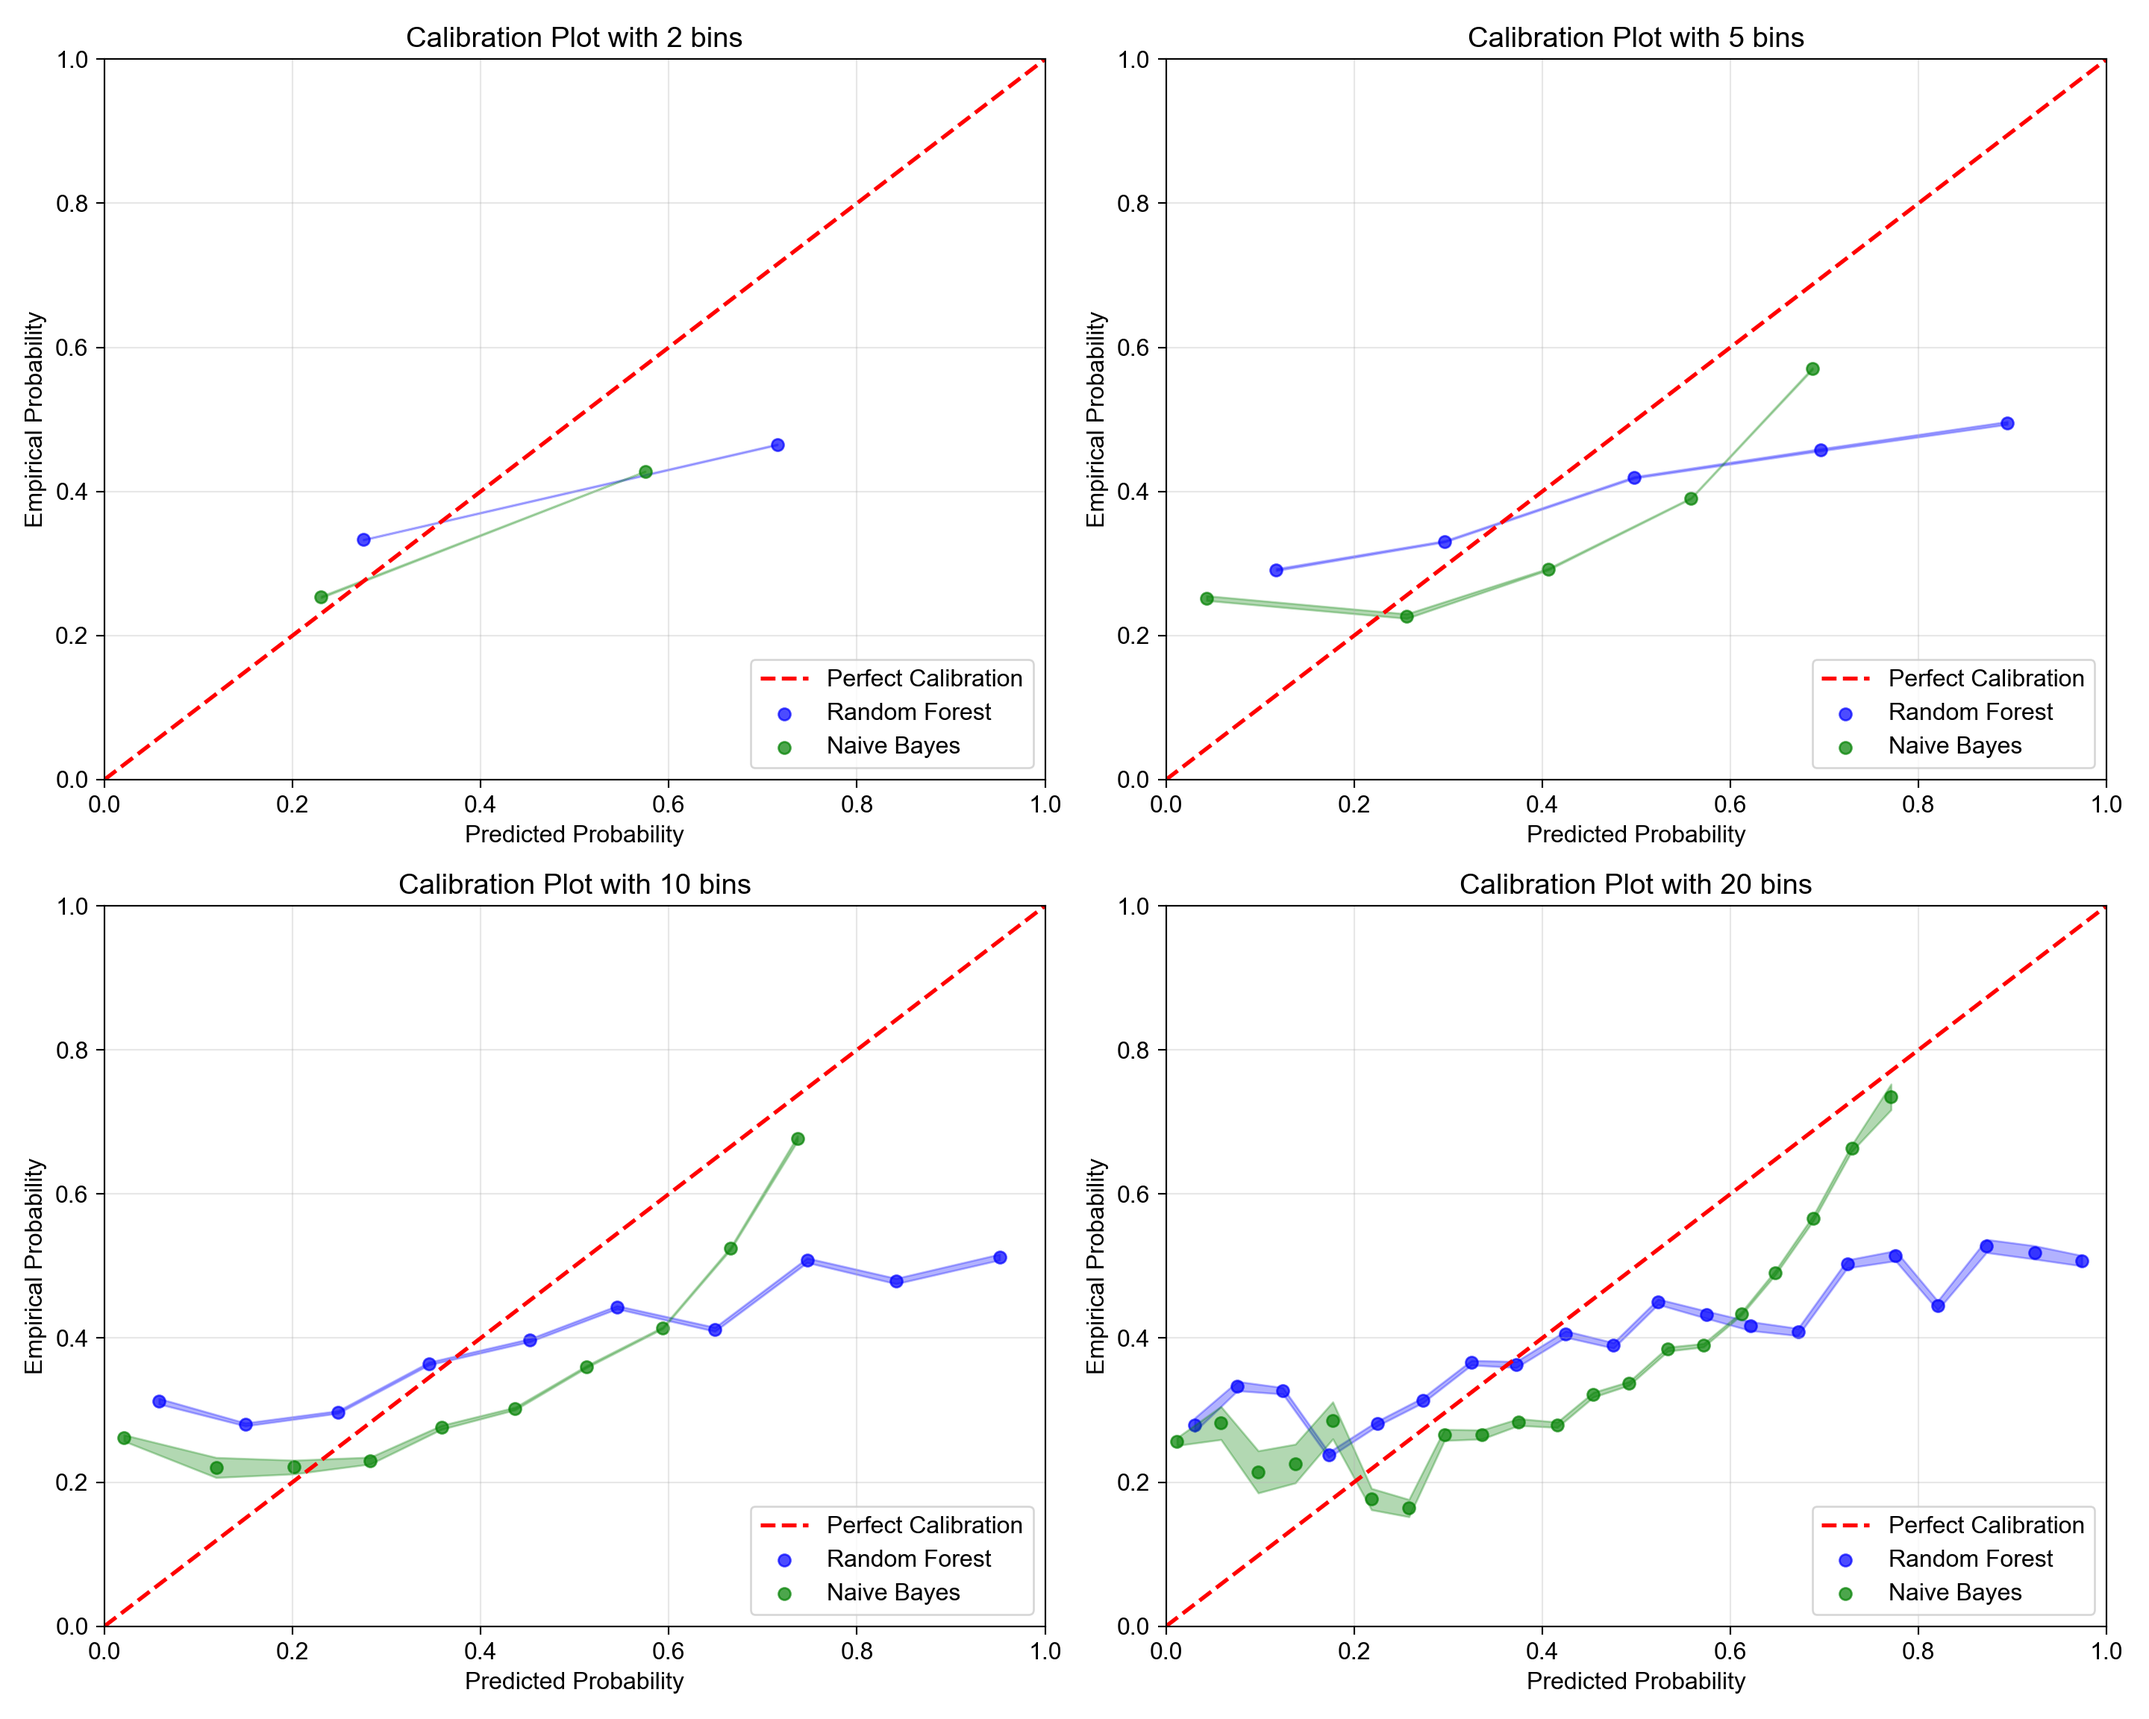
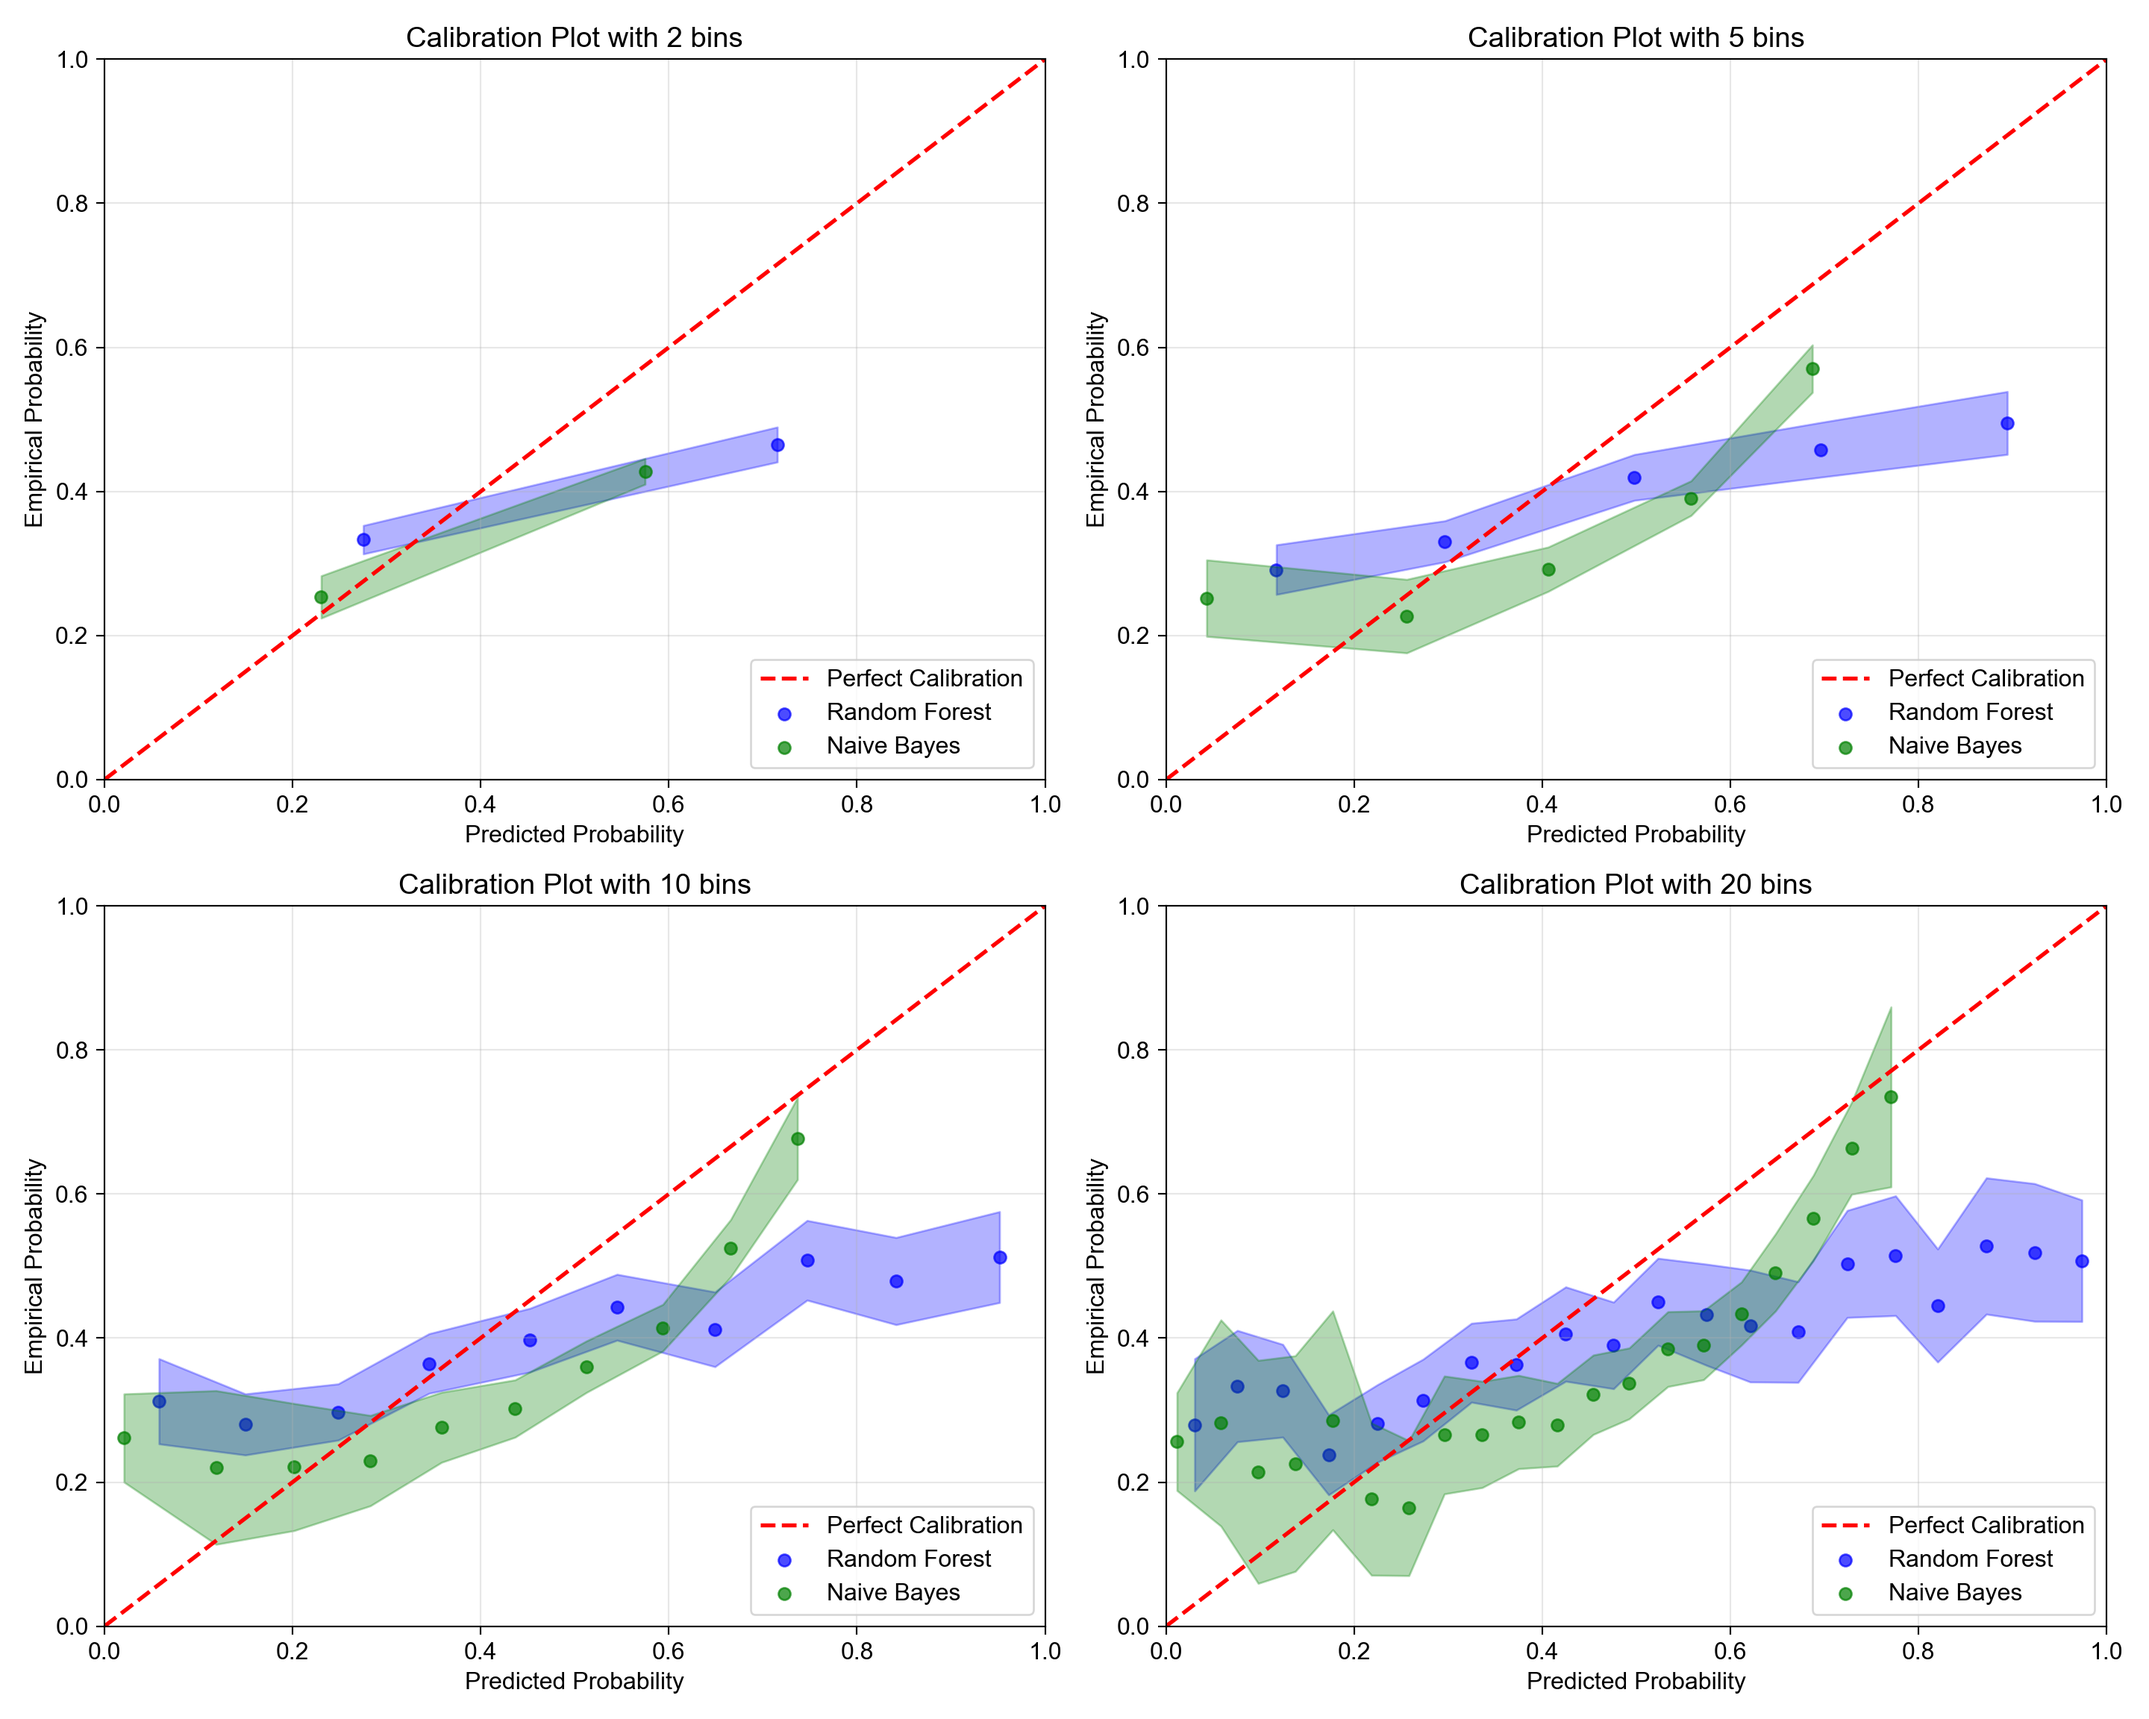
standard errors miscalculation

diff --git a/index.html b/index.html
@@ -7,7 +7,7 @@
 <meta name="viewport" content="width=device-width, initial-scale=1.0, user-scalable=yes">
 
 <meta name="author" content="Wooyong Park">
-<meta name="dcterms.date" content="2025-09-08">
+<meta name="dcterms.date" content="2025-09-10">
 
 <title>Calibration Plots</title>
 <style>
@@ -171,7 +171,7 @@ window.Quarto = {
     <div>
     <div class="quarto-title-meta-heading">Published</div>
     <div class="quarto-title-meta-contents">
-      <p class="date">September 8, 2025</p>
+      <p class="date">September 10, 2025</p>
     </div>
   </div>
   
@@ -20626,7 +20626,7 @@ document.querySelectorAll('.fa-regular.fa-copy').forEach(function(element) {
 <span id="cb11-10"><a href="#cb11-10" aria-hidden="true" tabindex="-1"></a>    <span class="at">bin_center =</span> <span class="fu">tapply</span>(plot_data<span class="sc">$</span>forest_pred, rf_bins, mean),</span>
 <span id="cb11-11"><a href="#cb11-11" aria-hidden="true" tabindex="-1"></a>    <span class="at">empirical_prob =</span> <span class="fu">tapply</span>(plot_data<span class="sc">$</span>actual, rf_bins, mean),</span>
 <span id="cb11-12"><a href="#cb11-12" aria-hidden="true" tabindex="-1"></a>    <span class="at">count =</span> <span class="fu">as.numeric</span>(<span class="fu">table</span>(rf_bins)),</span>
-<span id="cb11-13"><a href="#cb11-13" aria-hidden="true" tabindex="-1"></a>    <span class="at">empirical_se =</span> <span class="fu">tapply</span>(plot_data<span class="sc">$</span>actual, rf_bins, sd)<span class="sc">/</span>count</span>
+<span id="cb11-13"><a href="#cb11-13" aria-hidden="true" tabindex="-1"></a>    <span class="at">empirical_se =</span> <span class="fu">tapply</span>(plot_data<span class="sc">$</span>actual, rf_bins, sd)<span class="sc">/</span><span class="fu">sqrt</span>(count)</span>
 <span id="cb11-14"><a href="#cb11-14" aria-hidden="true" tabindex="-1"></a>  )</span>
 <span id="cb11-15"><a href="#cb11-15" aria-hidden="true" tabindex="-1"></a></span>
 <span id="cb11-16"><a href="#cb11-16" aria-hidden="true" tabindex="-1"></a><span class="co"># Calculate the statistics for the Naive Bayes model</span></span>
@@ -20634,7 +20634,7 @@ document.querySelectorAll('.fa-regular.fa-copy').forEach(function(element) {
 <span id="cb11-18"><a href="#cb11-18" aria-hidden="true" tabindex="-1"></a>    <span class="at">bin_center =</span> <span class="fu">tapply</span>(plot_data<span class="sc">$</span>nb_pred, nb_bins, mean),</span>
 <span id="cb11-19"><a href="#cb11-19" aria-hidden="true" tabindex="-1"></a>    <span class="at">empirical_prob =</span> <span class="fu">tapply</span>(plot_data<span class="sc">$</span>actual, nb_bins, mean),</span>
 <span id="cb11-20"><a href="#cb11-20" aria-hidden="true" tabindex="-1"></a>    <span class="at">count =</span> <span class="fu">as.numeric</span>(<span class="fu">table</span>(nb_bins)),</span>
-<span id="cb11-21"><a href="#cb11-21" aria-hidden="true" tabindex="-1"></a>    <span class="at">empirical_se =</span> <span class="fu">tapply</span>(plot_data<span class="sc">$</span>actual, nb_bins, sd)<span class="sc">/</span>count</span>
+<span id="cb11-21"><a href="#cb11-21" aria-hidden="true" tabindex="-1"></a>    <span class="at">empirical_se =</span> <span class="fu">tapply</span>(plot_data<span class="sc">$</span>actual, nb_bins, sd)<span class="sc">/</span><span class="fu">sqrt</span>(count)</span>
 <span id="cb11-22"><a href="#cb11-22" aria-hidden="true" tabindex="-1"></a>  )</span>
 <span id="cb11-23"><a href="#cb11-23" aria-hidden="true" tabindex="-1"></a></span>
 <span id="cb11-24"><a href="#cb11-24" aria-hidden="true" tabindex="-1"></a><span class="co"># Combine the statistics for the two models</span></span>
@@ -20815,7 +20815,7 @@ document.querySelectorAll('.fa-regular.fa-copy').forEach(function(element) {
 <span id="cb21-11"><a href="#cb21-11" aria-hidden="true" tabindex="-1"></a>    <span class="at">bin_center =</span> <span class="fu">tapply</span>(plot_data<span class="sc">$</span>forest_pred, rf_bins, mean),</span>
 <span id="cb21-12"><a href="#cb21-12" aria-hidden="true" tabindex="-1"></a>    <span class="at">empirical_prob =</span> <span class="fu">tapply</span>(plot_data<span class="sc">$</span>actual, rf_bins, mean),</span>
 <span id="cb21-13"><a href="#cb21-13" aria-hidden="true" tabindex="-1"></a>    <span class="at">count =</span> <span class="fu">as.numeric</span>(<span class="fu">table</span>(rf_bins)),</span>
-<span id="cb21-14"><a href="#cb21-14" aria-hidden="true" tabindex="-1"></a>    <span class="at">empirical_se =</span> <span class="fu">tapply</span>(plot_data<span class="sc">$</span>actual, rf_bins, sd)<span class="sc">/</span>count</span>
+<span id="cb21-14"><a href="#cb21-14" aria-hidden="true" tabindex="-1"></a>    <span class="at">empirical_se =</span> <span class="fu">tapply</span>(plot_data<span class="sc">$</span>actual, rf_bins, sd)<span class="sc">/</span><span class="fu">sqrt</span>(count)</span>
 <span id="cb21-15"><a href="#cb21-15" aria-hidden="true" tabindex="-1"></a>  )</span>
 <span id="cb21-16"><a href="#cb21-16" aria-hidden="true" tabindex="-1"></a></span>
 <span id="cb21-17"><a href="#cb21-17" aria-hidden="true" tabindex="-1"></a>  <span class="co"># Calculate the statistics for the Naive Bayes model</span></span>
@@ -20823,7 +20823,7 @@ document.querySelectorAll('.fa-regular.fa-copy').forEach(function(element) {
 <span id="cb21-19"><a href="#cb21-19" aria-hidden="true" tabindex="-1"></a>    <span class="at">bin_center =</span> <span class="fu">tapply</span>(plot_data<span class="sc">$</span>nb_pred, nb_bins, mean),</span>
 <span id="cb21-20"><a href="#cb21-20" aria-hidden="true" tabindex="-1"></a>    <span class="at">empirical_prob =</span> <span class="fu">tapply</span>(plot_data<span class="sc">$</span>actual, nb_bins, mean),</span>
 <span id="cb21-21"><a href="#cb21-21" aria-hidden="true" tabindex="-1"></a>    <span class="at">count =</span> <span class="fu">as.numeric</span>(<span class="fu">table</span>(nb_bins)),</span>
-<span id="cb21-22"><a href="#cb21-22" aria-hidden="true" tabindex="-1"></a>    <span class="at">empirical_se =</span> <span class="fu">tapply</span>(plot_data<span class="sc">$</span>actual, nb_bins, sd)<span class="sc">/</span>count</span>
+<span id="cb21-22"><a href="#cb21-22" aria-hidden="true" tabindex="-1"></a>    <span class="at">empirical_se =</span> <span class="fu">tapply</span>(plot_data<span class="sc">$</span>actual, nb_bins, sd)<span class="sc">/</span><span class="fu">sqrt</span>(count)</span>
 <span id="cb21-23"><a href="#cb21-23" aria-hidden="true" tabindex="-1"></a>  )</span>
 <span id="cb21-24"><a href="#cb21-24" aria-hidden="true" tabindex="-1"></a></span>
 <span id="cb21-25"><a href="#cb21-25" aria-hidden="true" tabindex="-1"></a>  <span class="co"># Combine the statistics for the two models</span></span>
@@ -20879,7 +20879,7 @@ document.querySelectorAll('.fa-regular.fa-copy').forEach(function(element) {
 <span id="cb22-16"><a href="#cb22-16" aria-hidden="true" tabindex="-1"></a>        <span class="st">'bin_center'</span>: plot_data[<span class="st">'forest_pred'</span>].groupby(rf_bins).mean(),</span>
 <span id="cb22-17"><a href="#cb22-17" aria-hidden="true" tabindex="-1"></a>        <span class="st">'empirical_prob'</span>: plot_data[<span class="st">'actual'</span>].groupby(rf_bins).mean(),</span>
 <span id="cb22-18"><a href="#cb22-18" aria-hidden="true" tabindex="-1"></a>        <span class="st">'count'</span>: rf_bins.value_counts().sort_index(),</span>
-<span id="cb22-19"><a href="#cb22-19" aria-hidden="true" tabindex="-1"></a>        <span class="st">'empirical_se'</span>: plot_data[<span class="st">'actual'</span>].groupby(rf_bins).std() <span class="op">/</span> rf_bins.value_counts().sort_index()</span>
+<span id="cb22-19"><a href="#cb22-19" aria-hidden="true" tabindex="-1"></a>        <span class="st">'empirical_se'</span>: plot_data[<span class="st">'actual'</span>].groupby(rf_bins).std() <span class="op">/</span> np.sqrt(rf_bins.value_counts().sort_index())</span>
 <span id="cb22-20"><a href="#cb22-20" aria-hidden="true" tabindex="-1"></a>    })</span>
 <span id="cb22-21"><a href="#cb22-21" aria-hidden="true" tabindex="-1"></a></span>
 <span id="cb22-22"><a href="#cb22-22" aria-hidden="true" tabindex="-1"></a>    <span class="co"># Calculate the statistics for the Naive Bayes model</span></span>
@@ -20887,7 +20887,7 @@ document.querySelectorAll('.fa-regular.fa-copy').forEach(function(element) {
 <span id="cb22-24"><a href="#cb22-24" aria-hidden="true" tabindex="-1"></a>        <span class="st">'bin_center'</span>: plot_data[<span class="st">'nb_pred'</span>].groupby(nb_bins).mean(),</span>
 <span id="cb22-25"><a href="#cb22-25" aria-hidden="true" tabindex="-1"></a>        <span class="st">'empirical_prob'</span>: plot_data[<span class="st">'actual'</span>].groupby(nb_bins).mean(),</span>
 <span id="cb22-26"><a href="#cb22-26" aria-hidden="true" tabindex="-1"></a>        <span class="st">'count'</span>: nb_bins.value_counts().sort_index(),</span>
-<span id="cb22-27"><a href="#cb22-27" aria-hidden="true" tabindex="-1"></a>        <span class="st">'empirical_se'</span>: plot_data[<span class="st">'actual'</span>].groupby(nb_bins).std() <span class="op">/</span> nb_bins.value_counts().sort_index()</span>
+<span id="cb22-27"><a href="#cb22-27" aria-hidden="true" tabindex="-1"></a>        <span class="st">'empirical_se'</span>: plot_data[<span class="st">'actual'</span>].groupby(nb_bins).std() <span class="op">/</span> np.sqrt(nb_bins.value_counts().sort_index())</span>
 <span id="cb22-28"><a href="#cb22-28" aria-hidden="true" tabindex="-1"></a>    })</span>
 <span id="cb22-29"><a href="#cb22-29" aria-hidden="true" tabindex="-1"></a></span>
 <span id="cb22-30"><a href="#cb22-30" aria-hidden="true" tabindex="-1"></a>    <span class="co"># Add perfect calibration line</span></span>
